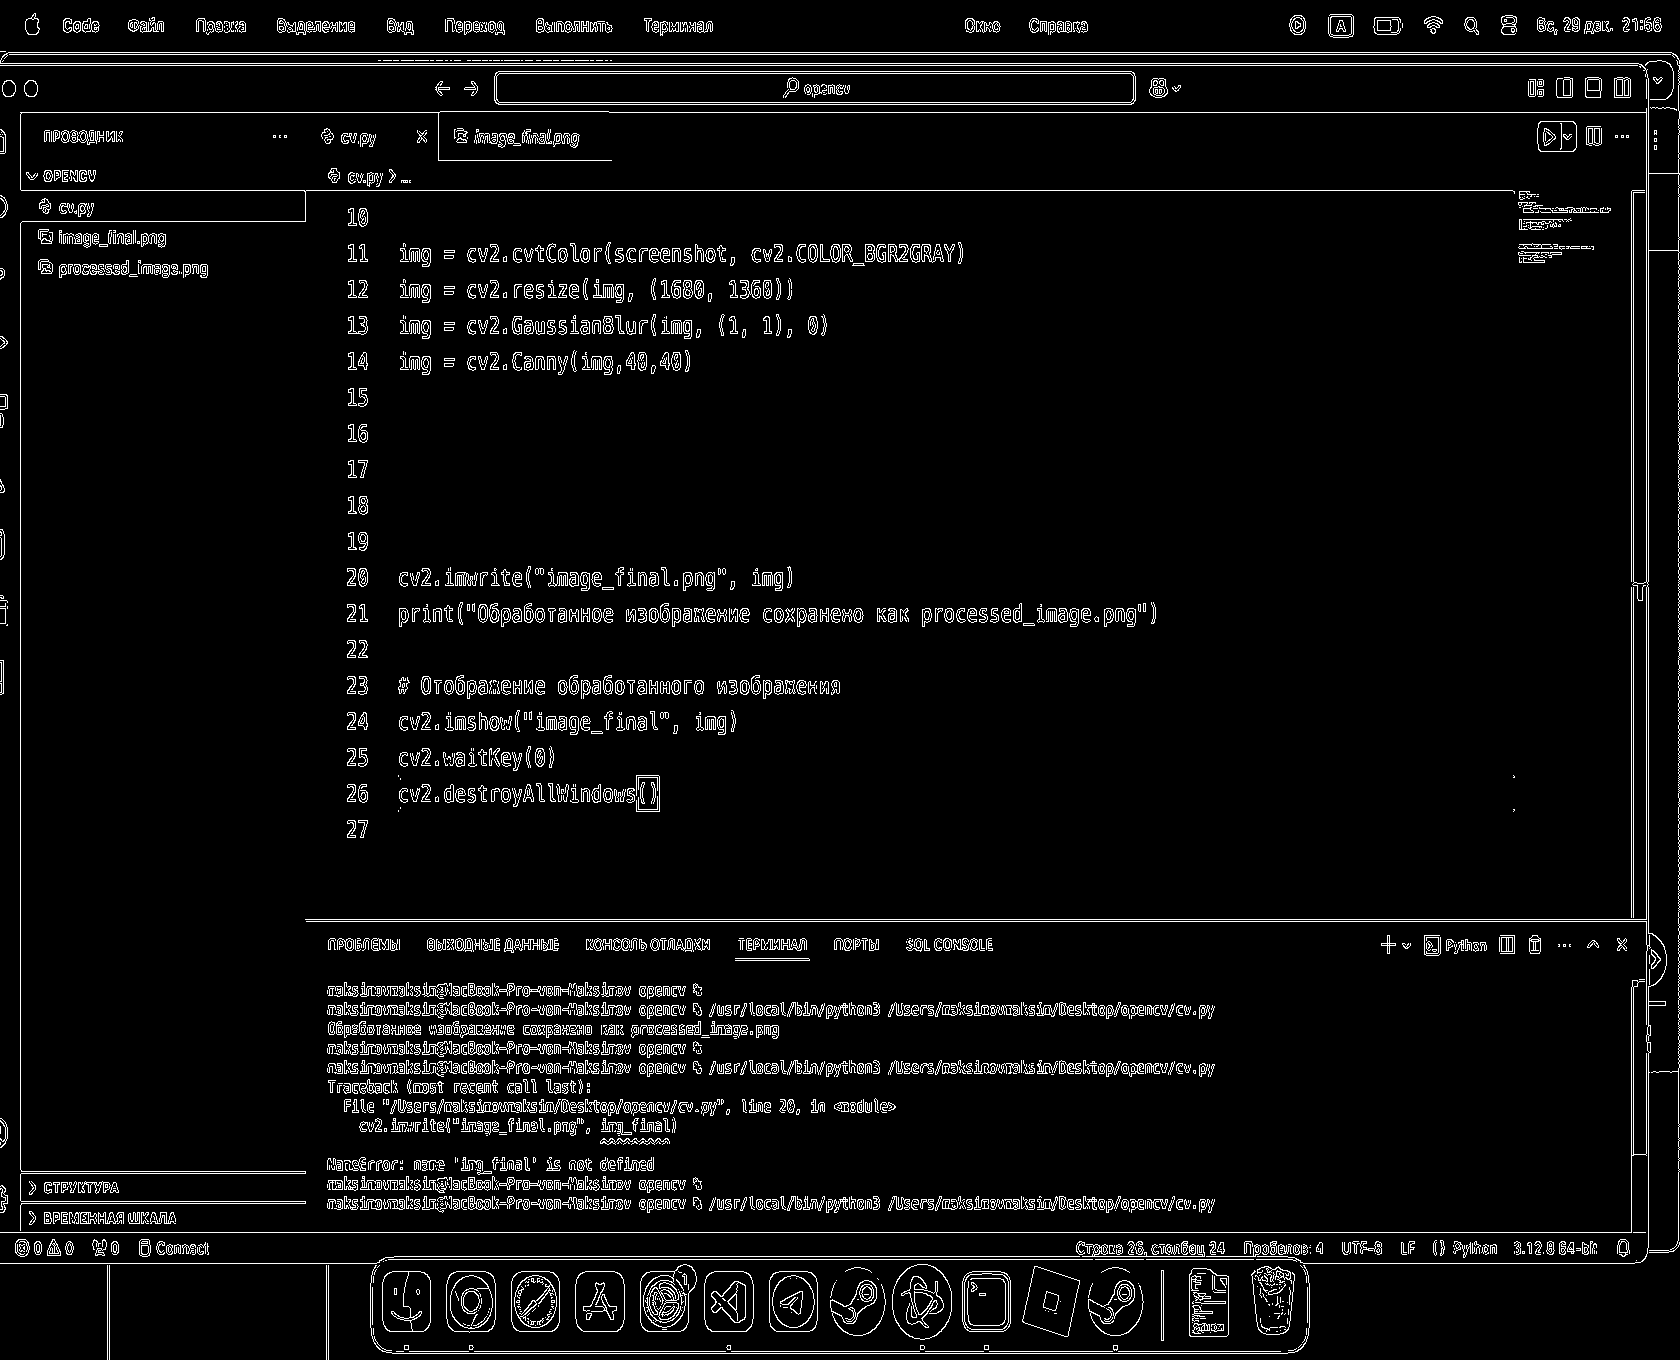
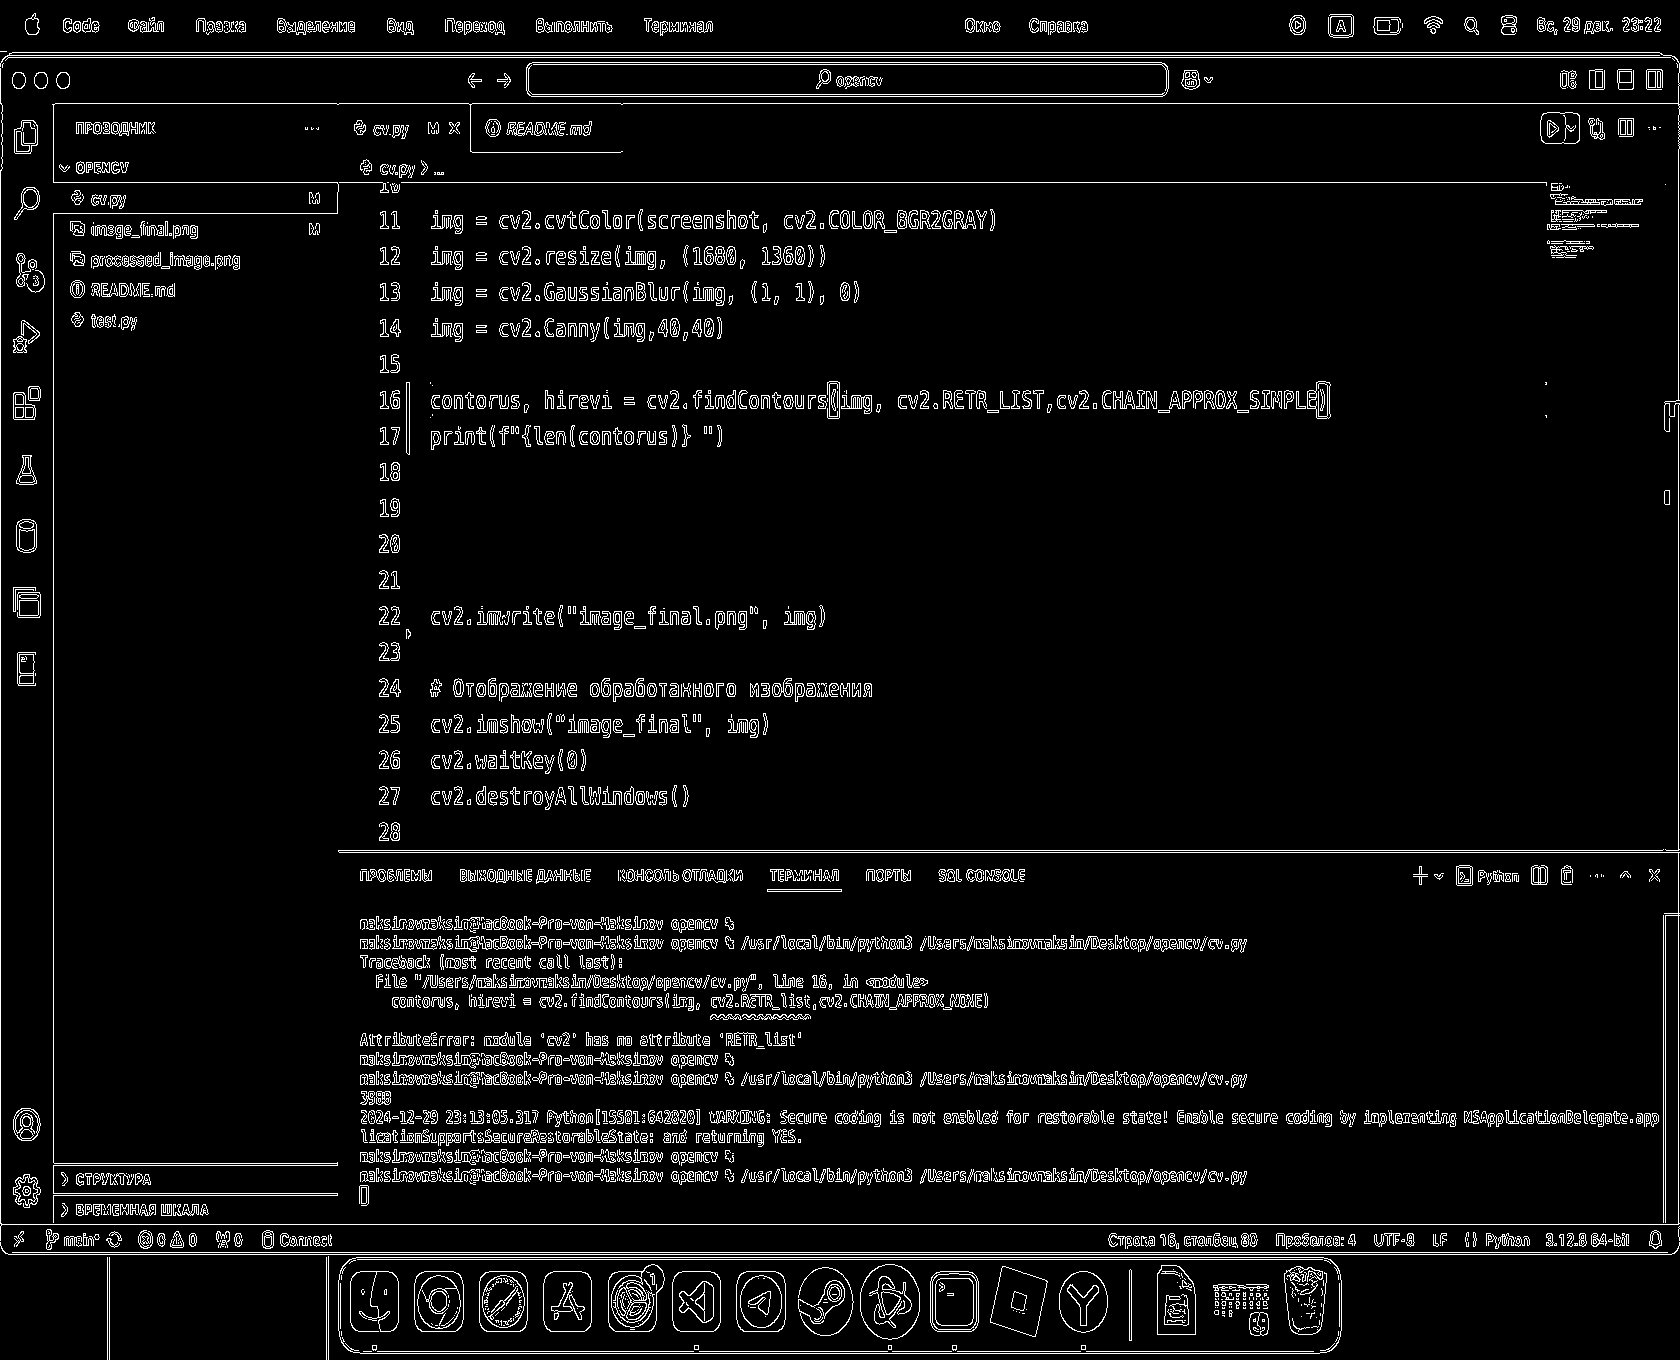
upgrade1

diff --git a/test3.py b/test3.py
@@ -1,0 +1,23 @@
+import cv2 as cv
+import numpy as np
+
+black = np.zeros((400,400), dtype="uint8")
+
+rectangle = cv.rectangle(black.copy(),(30,30),(370,370),255,-1)
+circle = cv.circle(black.copy(),(200,200),200,255,-1)
+cv.imshow('rex', rectangle)
+cv.imshow("flock", circle)
+
+bit = cv.bitwise_and(rectangle,circle)
+cv.imshow("fffg",bit)
+
+bit1 = cv.bitwise_or(rectangle,circle)
+cv.imshow("ff",bit1)
+
+bit2 = cv.bitwise_xor(rectangle,circle)
+cv.imshow("ffgf",bit2)
+
+bit3 = cv.bitwise_not(circle)
+cv.imshow("ffe",bit3)
+
+cv.waitKey(0)

diff --git a/mask.py b/mask.py
@@ -1,0 +1,16 @@
+import cv2 as cv
+import numpy as np
+
+img = cv.imread("tmb_14441_4994.jpg")
+cv.imshow('cats',img)
+
+blank = np.zeros(img.shape[:2],dtype='uint8')
+cv.imshow('fg',blank)
+
+mask = cv.rectangle(blank,(200,500),(355,555),255,-1)
+cv.imshow("f",mask)
+
+masked = cv.bitwise_and(img,img,mask=mask)
+cv.imshow("f32",masked)
+
+cv.waitKey(0)

diff --git a/test2.py b/test2.py
@@ -1,0 +1,20 @@
+import cv2 as cv
+import numpy
+
+img = cv.imread("tmb_14441_4994.jpg")
+#cv.imshow("res",img)
+
+img1 = cv.blur(img, (7,7))
+cv.imshow("rf",img1)
+
+gass = cv.GaussianBlur(img, (7,7),0)
+cv.imshow("fdf",gass)
+
+vi = cv.bilateralFilter(img,10,35,25)
+cv.imshow("rtrt",vi)
+
+
+
+
+
+cv.waitKey(0)

diff --git a/cv.py b/cv.py
@@ -20,7 +20,6 @@ print(f"{len(contorus)} ")
 
 
 cv2.imwrite("image_final.png", img)
-print("Обработанное изображение сохранено как processed_image.png")
 
 # Отображение обработанного изображения
 cv2.imshow("image_final", img)

diff --git a/test.py b/test.py
@@ -1,0 +1,12 @@
+import cv2 as cv
+
+img = cv.imread("tmb_14441_4994.jpg")
+cv.imshow("res",img)
+
+img1 = cv.cvtColor(img, cv.COLOR_BGR2GRAY)
+cv.imshow("gray",img1)
+
+img2= cv.cvtColor(img,cv.COLOR_BGR2HSV)
+cv.imshow("fgfg",img2)
+
+cv.waitKey(0)
